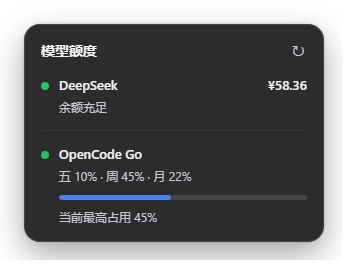
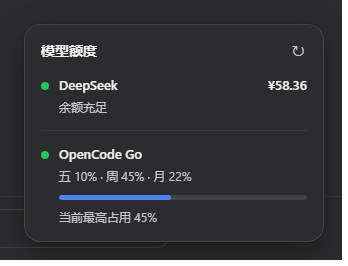
docs: pure-white light demo page, theme tokens drive demo surfaces
Light demo now renders every surface (sidebar/chat/composer/body) at
#ffffff via --dsw-alias-bg-layer-2; the dark demo keeps its dark surfaces.
Screenshots and panel close-ups re-captured under new *-light/-dark names.

Changed region(s): [[0.0, 0.0, 1.0, 0.9925]]

diff --git a/docs/demo-dark.html b/docs/demo-dark.html
@@ -5,7 +5,7 @@
 <title>dsh-quota-panel demo (dark)</title>
 <style>
   html, body { margin: 0; height: 100%; }
-  body { background: #ffffff; font-family: var(--dsw-font-family, system-ui, sans-serif); color: var(--dsw-alias-label-primary, #1b1b1c); }
+  body { background: var(--dsw-alias-bg-layer-2, #ffffff); font-family: var(--dsw-font-family, system-ui, sans-serif); color: var(--dsw-alias-label-primary, #1b1b1c); }
   body {
   --dsw-alias-bg-layer-2: #ffffff;
   --dsw-alias-bg-overlay: #ebeef2;
@@ -38,16 +38,16 @@ body[data-ds-dark-theme] {
   --dsw-shadow-lv3: 0 0 1px 0 rgba(0,0,0,.4), 0 0 4px 0 rgba(0,0,0,.1), 0 12px 32px 0 rgba(0,0,0,.35);
 }
   .chrome { display: flex; height: 100vh; }
-  .sidebar { width: 220px; background: #ffffff; border-right: 1px solid var(--dsw-alias-border-l1, rgba(0,0,0,.06)); padding: 12px; }
+  .sidebar { width: 220px; background: var(--dsw-alias-bg-layer-2, #ffffff); border-right: 1px solid var(--dsw-alias-border-l1, rgba(0,0,0,.06)); padding: 12px; }
   .brand { font-size: 13px; font-weight: 700; margin-bottom: 14px; }
   .nav { font-size: 12px; line-height: 2.2; color: var(--dsw-alias-label-secondary, #61666b); }
   .main { flex: 1; display: flex; flex-direction: column; }
-  .chat { flex: 1; padding: 24px; overflow: hidden; background: #ffffff; }
+  .chat { flex: 1; padding: 24px; overflow: hidden; background: var(--dsw-alias-bg-layer-2, #ffffff); }
   .msg { max-width: 640px; margin: 0 auto 14px; font-size: 13px; line-height: 1.6; }
   .msg .who { font-weight: 700; color: var(--dsw-static-deepseek-500, #4176e6); margin-bottom: 4px; }
   .msg p { margin: 4px 0; color: var(--dsw-alias-label-secondary, #61666b); }
-  .composer { border-top: 1px solid var(--dsw-alias-border-l1, rgba(0,0,0,.06)); padding: 12px 24px; background: #ffffff; }
-  .box { max-width: 640px; margin: 0 auto; background: #ffffff; border: 1px solid var(--dsw-alias-border-l2, rgba(0,0,0,.1)); border-radius: 10px; padding: 10px 14px; color: var(--dsw-alias-label-secondary, #61666b); font-size: 13px; }
+  .composer { border-top: 1px solid var(--dsw-alias-border-l1, rgba(0,0,0,.06)); padding: 12px 24px; background: var(--dsw-alias-bg-layer-2, #ffffff); }
+  .box { max-width: 640px; margin: 0 auto; background: var(--dsw-alias-bg-layer-2, #ffffff); border: 1px solid var(--dsw-alias-border-l2, rgba(0,0,0,.1)); border-radius: 10px; padding: 10px 14px; color: var(--dsw-alias-label-secondary, #61666b); font-size: 13px; }
 </style>
 </head>
 <body data-ds-dark-theme>

diff --git a/docs/demo.html b/docs/demo.html
@@ -5,7 +5,7 @@
 <title>dsh-quota-panel demo (light)</title>
 <style>
   html, body { margin: 0; height: 100%; }
-  body { background: #ffffff; font-family: var(--dsw-font-family, system-ui, sans-serif); color: var(--dsw-alias-label-primary, #1b1b1c); }
+  body { background: var(--dsw-alias-bg-layer-2, #ffffff); font-family: var(--dsw-font-family, system-ui, sans-serif); color: var(--dsw-alias-label-primary, #1b1b1c); }
   body {
   --dsw-alias-bg-layer-2: #ffffff;
   --dsw-alias-bg-overlay: #ebeef2;
@@ -38,16 +38,16 @@ body[data-ds-dark-theme] {
   --dsw-shadow-lv3: 0 0 1px 0 rgba(0,0,0,.4), 0 0 4px 0 rgba(0,0,0,.1), 0 12px 32px 0 rgba(0,0,0,.35);
 }
   .chrome { display: flex; height: 100vh; }
-  .sidebar { width: 220px; background: #ffffff; border-right: 1px solid var(--dsw-alias-border-l1, rgba(0,0,0,.06)); padding: 12px; }
+  .sidebar { width: 220px; background: var(--dsw-alias-bg-layer-2, #ffffff); border-right: 1px solid var(--dsw-alias-border-l1, rgba(0,0,0,.06)); padding: 12px; }
   .brand { font-size: 13px; font-weight: 700; margin-bottom: 14px; }
   .nav { font-size: 12px; line-height: 2.2; color: var(--dsw-alias-label-secondary, #61666b); }
   .main { flex: 1; display: flex; flex-direction: column; }
-  .chat { flex: 1; padding: 24px; overflow: hidden; background: #ffffff; }
+  .chat { flex: 1; padding: 24px; overflow: hidden; background: var(--dsw-alias-bg-layer-2, #ffffff); }
   .msg { max-width: 640px; margin: 0 auto 14px; font-size: 13px; line-height: 1.6; }
   .msg .who { font-weight: 700; color: var(--dsw-static-deepseek-500, #4176e6); margin-bottom: 4px; }
   .msg p { margin: 4px 0; color: var(--dsw-alias-label-secondary, #61666b); }
-  .composer { border-top: 1px solid var(--dsw-alias-border-l1, rgba(0,0,0,.06)); padding: 12px 24px; background: #ffffff; }
-  .box { max-width: 640px; margin: 0 auto; background: #ffffff; border: 1px solid var(--dsw-alias-border-l2, rgba(0,0,0,.1)); border-radius: 10px; padding: 10px 14px; color: var(--dsw-alias-label-secondary, #61666b); font-size: 13px; }
+  .composer { border-top: 1px solid var(--dsw-alias-border-l1, rgba(0,0,0,.06)); padding: 12px 24px; background: var(--dsw-alias-bg-layer-2, #ffffff); }
+  .box { max-width: 640px; margin: 0 auto; background: var(--dsw-alias-bg-layer-2, #ffffff); border: 1px solid var(--dsw-alias-border-l2, rgba(0,0,0,.1)); border-radius: 10px; padding: 10px 14px; color: var(--dsw-alias-label-secondary, #61666b); font-size: 13px; }
 </style>
 </head>
 <body>
